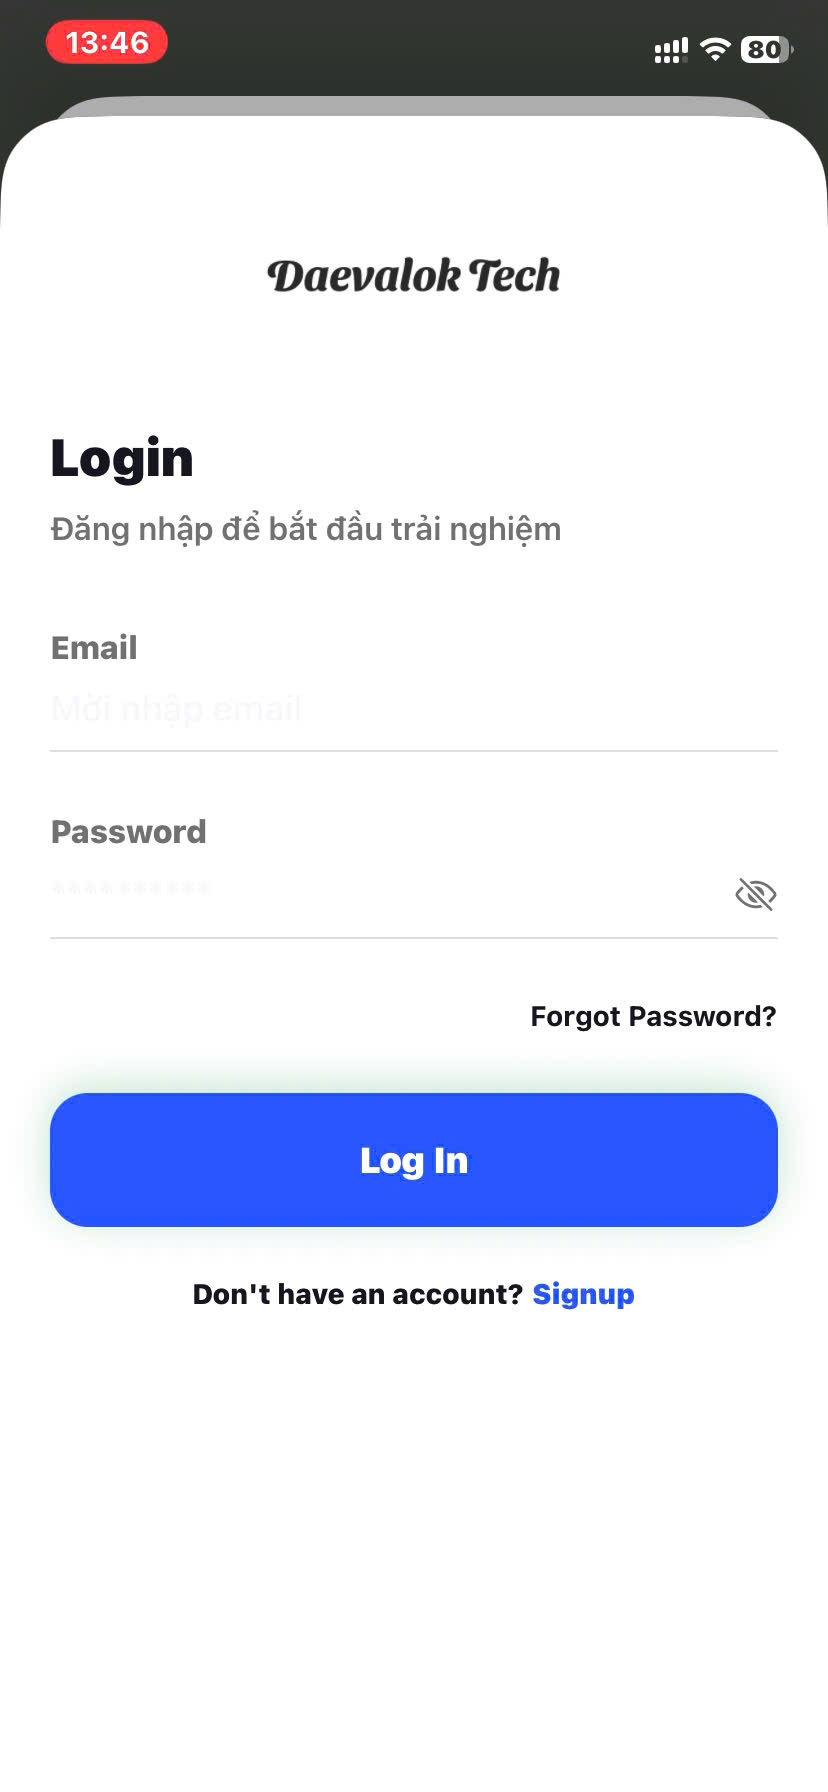
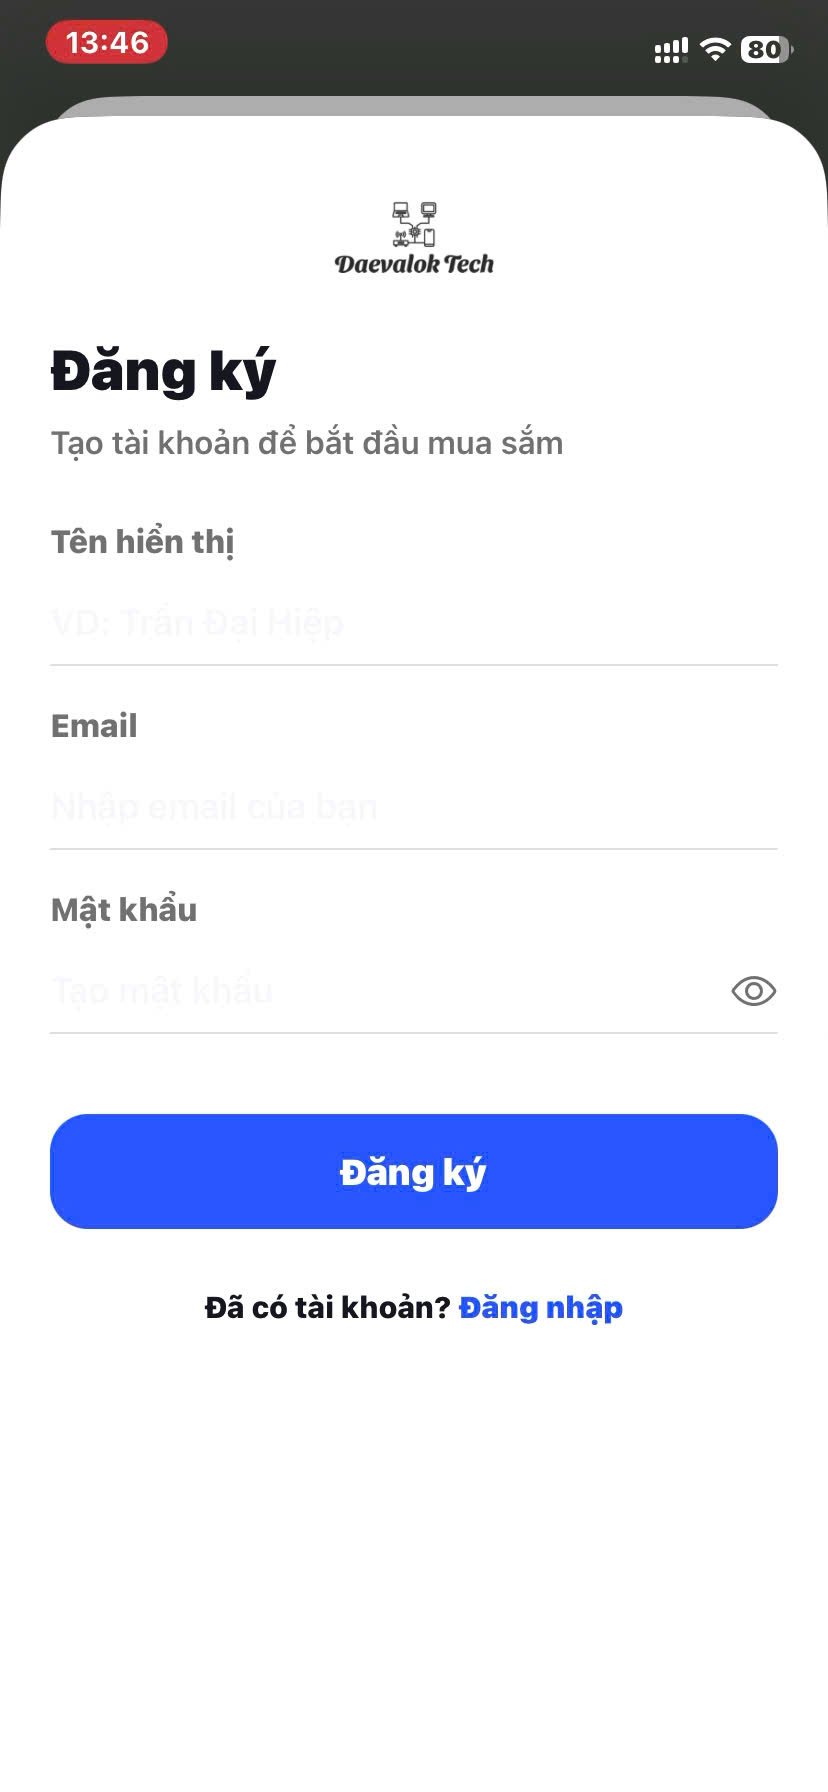
hoan thien readme

diff --git a/README.md b/README.md
@@ -16,10 +16,11 @@
 
 - **Họ và tên:** Trần Đại Hiệp
 - **Mã sinh viên:** 21810310632
+- **Phân công nhiệm vụ** Code chính, Xây dựng hệ thống, thiết kế giao diện, Hoàn thiện hệ thống, báo cáo, hoàn thiện layout, thiết kế logo, thiết kế thanh toán, thiết kế lịch sử, trang tìm kiếm, trang chủ.
 
 - **Họ và tên:** Vũ Đăng Tùng
 - **Mã sinh viên:** 21810310537
-
+- **Phân công nhiệm vụ** Tìm kiếm các nội dung, thiết kế trang chi tiết sản phẩm, trang yêu thích, báo cáo, quay demo.
 ---
 
 ## Công nghệ sử dụng